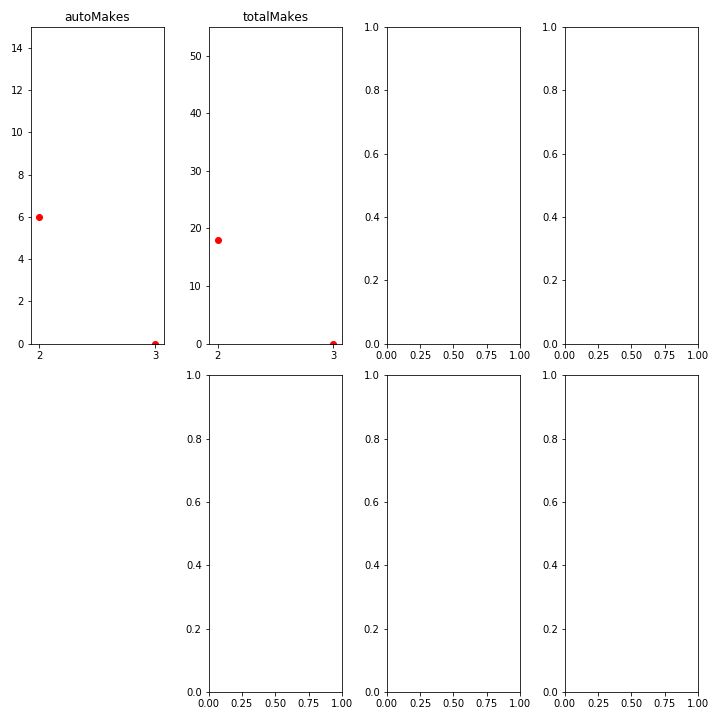
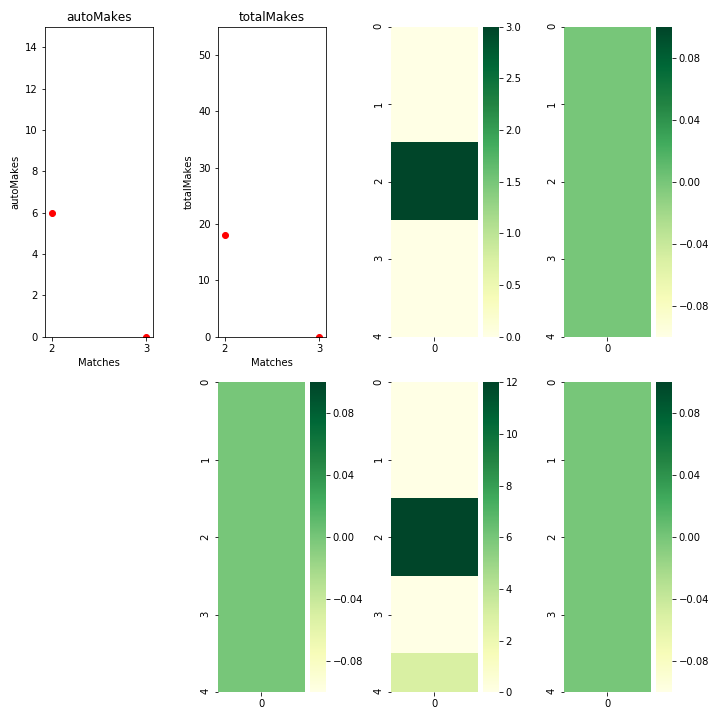
made the heatmaps for the team report

diff --git a/boxPlot for all the teams.py b/boxPlot for all the teams.py
@@ -6,6 +6,8 @@ Created on Wed Sep 18 14:33:57 2019
 """
 
 import pandas as pd
+import numpy as np
+import seaborn as sb
 from tkinter import filedialog
 import matplotlib.pyplot as plt
 import matplotlib.gridspec as gridspec
@@ -151,9 +153,26 @@ def getPrematchScatterPlot(df, team, graphVar, ax):
         ax.set_ylim(top=15, bottom=0)
    
     ax.set_title(graphVar)
+    ax.set_xlabel('Matches')
+    ax.set_ylabel(graphVar)
 
-def cyclePivot(cycleDf, ax, team, graphVar):
-    cycleDf.set_index("teamNo", inplace=True)
+  
+def getHeatMapPivot(df):
+    firstmove = pd.pivot_table(df, index=['matchNo','teamNo','cycle'], columns='shooterPosition',aggfunc=np.sum).fillna(0)
+    print(firstmove)
+    secondmove = firstmove.groupby(axis=0,level=['matchNo','teamNo'])
+    thirdmove = secondmove.sum()
+    print(thirdmove)
+    fourthmove = thirdmove.swaplevel(i='matchNo',j='teamNo').sort_index()
+    print(fourthmove)
+    return fourthmove    
+
+def getHeatMap(df, team, graphVar, ax):
+    df['highGoalMakes'] = df['innerGoalMakes'] + df['outerGoalMakes']
+    highGoalMakesbyMatchDf = getHeatMapPivot(df.loc[:,['matchNo','teamNo','cycle','shooterPosition', graphVar]])
+    try: sb.heatmap(highGoalMakesbyMatchDf.loc[[team], :].unstack().stack(1).to_numpy(), cmap="YlGn", ax=ax, annot=True)
+    except:print('data not available')
+    
     
 
 def prematchGraphs(maindf, cycledf, team):
@@ -169,9 +188,15 @@ def prematchGraphs(maindf, cycledf, team):
     ax7 = fig.add_subplot(gs[1, 3])
     getPrematchScatterPlot(df, team, 'autoMakes', ax1)
     getPrematchScatterPlot(df, team, 'totalMakes', ax2)
+    getHeatMap(cycledf, team, 'highGoalMisses', ax3)
+    getHeatMap(cycledf, team, 'lowGoalMisses', ax4)
+    getHeatMap(cycledf, team, 'innerGoalMakes', ax5)
+    getHeatMap(cycledf, team, 'outerGoalMakes', ax6)
+    getHeatMap(cycledf, team, 'lowGoalMakes', ax7)
     plt.savefig(str(team) + ' Prematch Graphs')
     plt.show()
     
-df = pd.read_csv(filedialog.askopenfilename(title = 'select unfiltered data file'), sep = '|')
+maindf = pd.read_csv(filedialog.askopenfilename(title = 'select unfiltered main data file'), sep = '|')
+cycledf = pd.read_csv(filedialog.askopenfilename(title = 'select unfiltered cycle data file'), sep = '|')
 #picklistBoxPlots(df)
-prematchGraphs(df, 'boo', 2001)
+prematchGraphs(maindf, cycledf, 1939)
